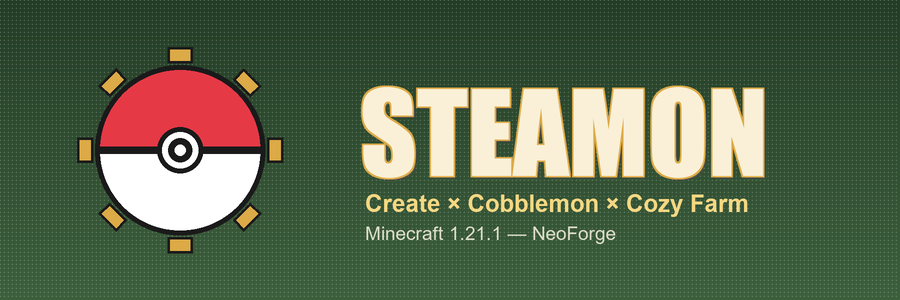
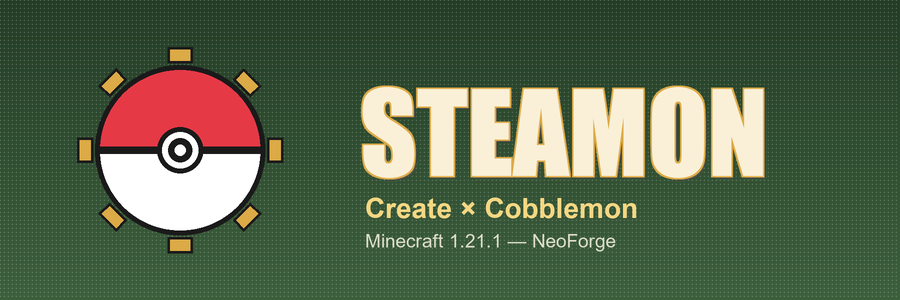
fix(branding): drop 'Cozy Farm' tagline (not a real mod)
Cozy Farm was a marketing label, not an actual mod — removed from banner,
Modrinth body, and README. Tagline shortened to 'Create x Cobblemon'.

Changed region(s): [[0.4044, 0.63, 0.84, 0.84]]

diff --git a/.modrinth/body.md b/.modrinth/body.md
@@ -1,8 +1,8 @@
-![Steamon — Create x Cobblemon x Cozy Farm](https://cdn.modrinth.com/data/CR2XFGJ4/images/be4f1ffd5f82a3e95a089e3bb266d086ad289298.png)
+![Steamon — Create × Cobblemon](https://cdn.modrinth.com/data/CR2XFGJ4/images/3ada059774451becd321dbd38016ae92b2be8c66.png)
 
-# Steamon — Create × Cobblemon × Cozy Farm
+# Steamon — Create × Cobblemon
 
-**NeoForge 1.21.1 | Create 6.0 | Cobblemon 1.7 | Sophisticated Storage | Cozy Farming | Adventure | Optimized | Multiplayer-ready**
+**NeoForge 1.21.1 | Create 6.0 | Cobblemon 1.7 | Sophisticated Storage | Adventure | Optimized | Multiplayer-ready**
 
 A cozy automation + Pokémon modpack where you tame your first Pikachu, automate your kitchen with Create contraptions, and clear gym leaders along the way — all in the same world.
 

diff --git a/README.md b/README.md
@@ -1,6 +1,6 @@
 <div align="center">
 
-![Steamon — Create x Cobblemon x Cozy Farm](.modrinth/banner.png)
+![Steamon — Create × Cobblemon](.modrinth/banner.png)
 
 # Steamon
 
